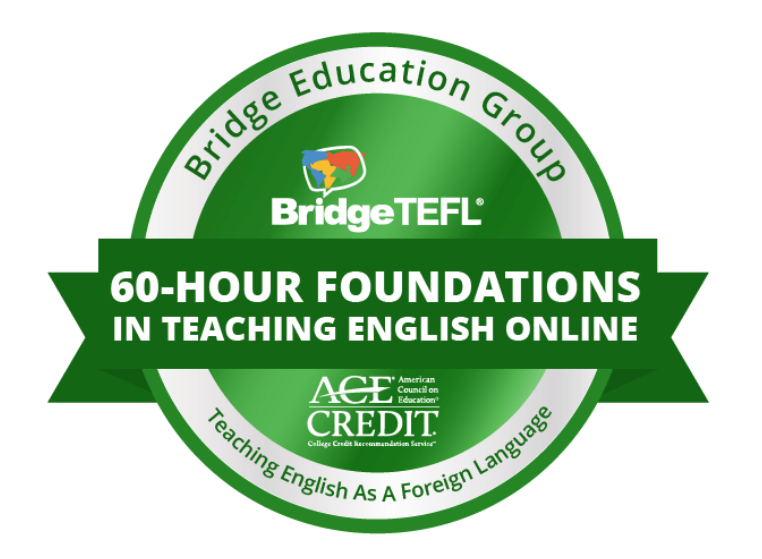
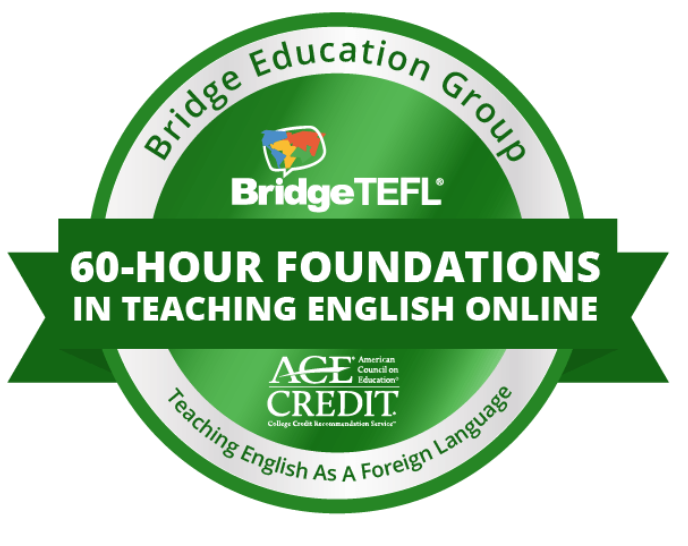
added second certificate

diff --git a/src/components/about.js b/src/components/about.js
@@ -58,13 +58,26 @@ export default class About extends React.Component {
                     hearing from you!
                   </p>
 
-                  <img
+                  <div class="row">
+  <div className="column mx-auto" >
+  <img
                     src={require("../assets/img/tefl.png")}
                     id="tefl"
-                    className="img-fluid center mx-auto"
+                    className="img-fluid d-flex mx-auto"
                     alt=""
                   ></img>
-                </div>
+  </div>
+  <div className="column mx-auto">
+  <img
+                    src={require("../assets/img/advanced_teaching.png")}
+                    id="teaching"
+                    className="img-fluid d-flex mx-auto"
+                    alt=""
+                  ></img>
+  </div>
+  </div>
+  </div>
+
               </div>
             </div>
             <div className="col-lg-12">

diff --git a/src/assets/css/agency.min.css b/src/assets/css/agency.min.css
@@ -172,8 +172,6 @@ header.masthead .intro-text .intro-heading {
     display: block;
   }
 
-
-
   header.masthead .intro-text {
     padding-top: 150px;
     padding-bottom: 230px;
@@ -229,6 +227,10 @@ header.masthead .intro-text .intro-heading {
   background-size: cover;
 }
 
+#certificates {
+  display: inline;
+}
+
 #about_title,
 #services_title,
 #prices_title,
@@ -252,8 +254,23 @@ header.masthead .intro-text .intro-heading {
   margin-bottom: 2.5%;
 }
 
+.column {
+  float: left;
+  width: 33.33%;
+  padding: 5px;
+}
+
 #tefl {
-  width: 40%;
+  width: 250px;
+  height: 136px;
+  display: block;
+  margin-top: 8%;
+  margin-bottom: 1%;
+}
+
+#teaching{
+  width: 250px;
+  height: 136px;
   display: block;
   margin-top: 8%;
   margin-bottom: 1%;
